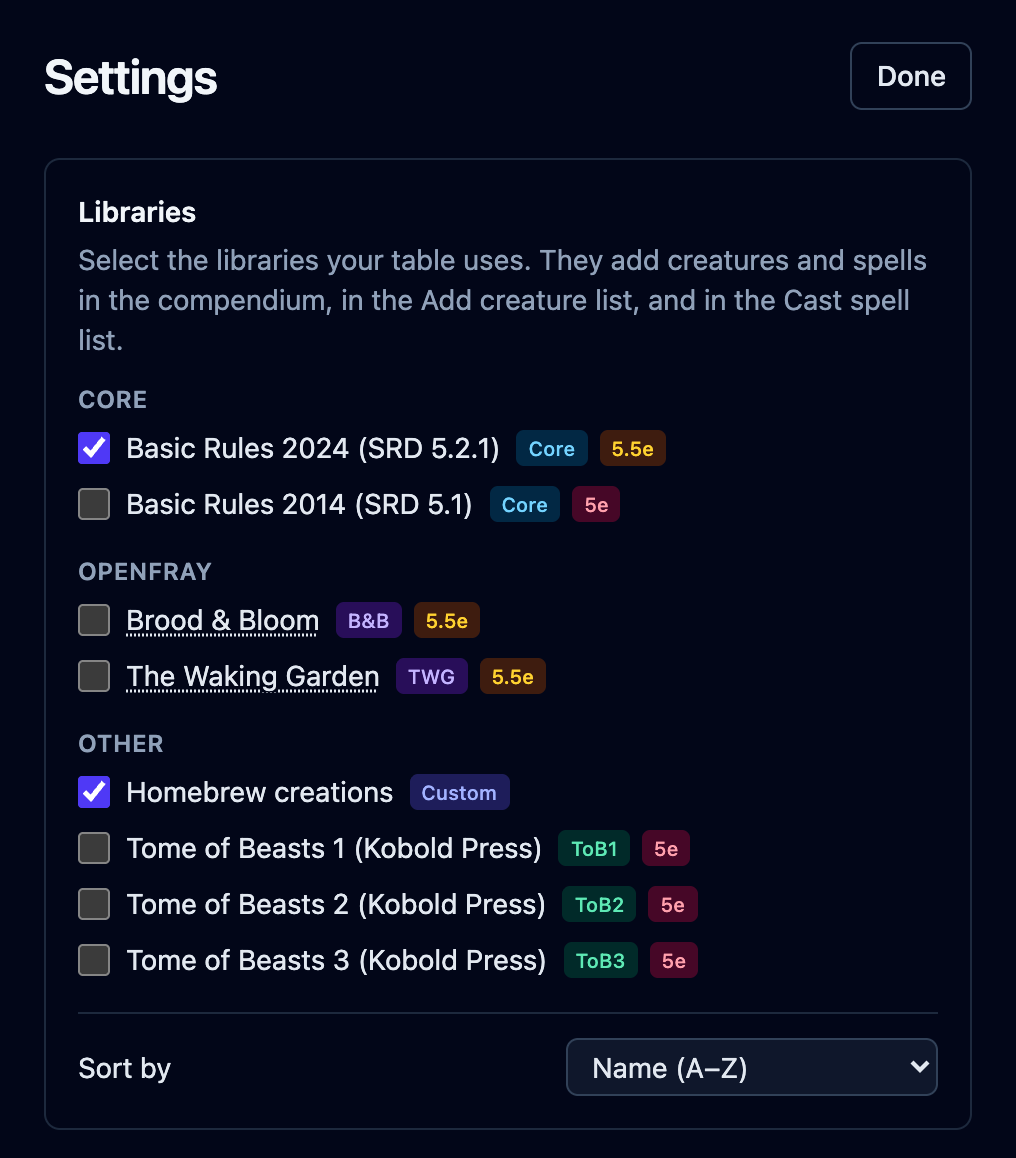
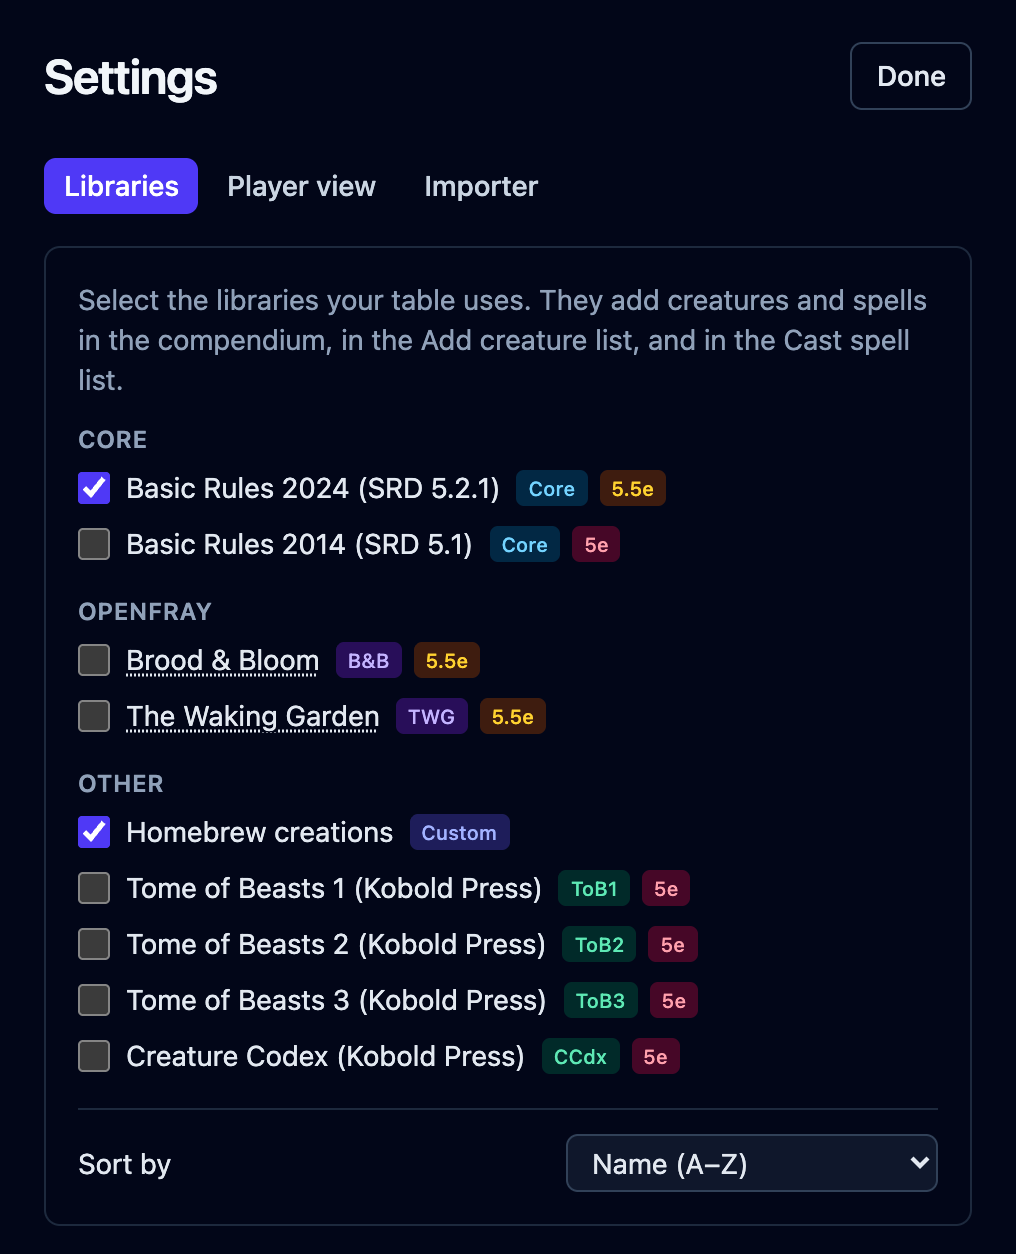
Docs: catch the handbook up with the shared player view
Thirteen app changes have landed since the handbook was last touched, most of them in
the screen the table follows. The player-view page is the bulk of it: creatures now
appear when the fight starts rather than while it is being set up, any one of them can
be held back or revealed on its own, allies show in full, the clocks and the end-of-fight
summary reach the table, and the log starts fresh each fight. Its settings table went
from two rows to eight.

Three claims on that page were wrong rather than merely incomplete, and are corrected:
the log no longer withholds a creature's damage at any hit-point setting, a reload no
longer drops the share, and the settings live behind tabs.

Elsewhere: allies get their own section under Combatants, with the tracker and the recap
pointing at it; concentration is described as starting when a spell lands, which is what
both cast paths now do; and Cast spell opens on the combatant the Game Master is looking
at.

The Settings captures were re-shot for the tabs — the old settings-panel shot framed the
libraries and the importer together, which the tabs make impossible — and the Player view
tab gets a capture of its own, since eight choices are easier shown than described. Both
recipes reached Settings by a path that no longer exists.

diff --git a/src/content/docs/fight/player-view.md b/src/content/docs/fight/player-view.md
@@ -27,6 +27,9 @@ The **screen** button sits in the top bar, between **Sign in** and the gear.
 Your players' screens fill in as soon as you start. If someone opens the link first, it says
 it's waiting and then fills in on its own — nobody has to reload.
 
+Reloading the console doesn't interrupt them: sharing picks up again on its own, and only
+stops when you press **Stop sharing** or close the tab.
+
 :::caution[Anyone with the link can watch]
 The link is the only thing protecting the view, so give it to your table rather than posting
 it publicly. Nobody can change anything through it: the player view has no buttons.
@@ -40,31 +43,56 @@ never pushes the turn order out of sight. On a phone they stack, log underneath.
 - **The turn order** — everyone in the fight, in initiative order, with their conditions
   and effects, who's up, and which round you're on.
 - **The game log** — the running record of what happened.
+- **The clocks** — how long the fight has taken, and how long it has run in the game.
 
 Player characters always show in full: hit points, armor class, conditions, and death saves.
-Your table wrote those numbers down themselves.
+Your table wrote those numbers down themselves. Anyone fighting **alongside** them shows in
+full too — a summoned wolf, a hired guard, a creature you've made an ally (see
+[Creatures, players & quick adds](/docs/fight/combatants/#allies)).
 
-Creatures are different, and that's your call — see below.
+Creatures on the other side are different, and that's your call — see below.
+
+### When a creature appears
+
+Your players see the creatures when the fight starts, not while you're setting it up. Until
+you press **Begin**, their screen shows the party and nothing else, so lining up six ogres
+gives nothing away.
+
+You can overrule that for any creature, either way:
+
+1. Click the creature in the tracker.
+2. In the controls beside its stat block, click **Hide from players**.
+
+The button reads **Hidden from players** while it's held back, its row is tagged **Hidden**
+on your own tracker, and anything it does stays out of your players' log. Click again to put
+it on their screen — before the fight if you want to, for the herald who walks in first.
+
+A creature that arrives mid-fight follows your **Creatures arriving mid-fight** setting, so
+reinforcements can be held back by default and revealed when the party sees them.
 
 ### What lands in their log
 
-Everything that happens on the board, minus a creature's numbers:
+Everything that happens on the board, minus the dice a creature rolled:
 
 | They see                                               | They don't                    |
 | ------------------------------------------------------ | ----------------------------- |
 | A creature attacking, and whether it hit or missed     | The dice, or its attack bonus |
-| What a roll came to, and what damage it dealt          | The dice that got there       |
+| What a roll came to, and the damage it dealt           | The dice that got there       |
 | Whether a creature saved or failed                     | Its save total, or its bonus  |
-| That a creature was hurt or healed                     | By how much                   |
+| How much damage a creature took, or was healed         | How many hit points it has    |
 | Conditions and effects landing and clearing, on anyone | —                             |
 | Concentration starting and breaking                    | —                             |
 | Spells being cast, by name                             | —                             |
 | Turns, rounds, knockouts, deaths, and rests            | —                             |
 
-A roll's total is safe to show — on its own it says nothing, because the dice behind it
-are unknown. A **saving throw** is the exception and shows no number at all: set against a
-difficulty class your table can work out, a save total would give the creature's bonus
-away. Saved or failed is the whole of what they need.
+A roll's total is safe to show — on its own it says nothing, because the dice behind it are
+unknown. A **saving throw** is the exception and shows no number at all: set against a
+difficulty class your table can work out, a save total would give the creature's bonus away.
+Saved or failed is the whole of what they need.
+
+Damage is never held back, whichever hit-point setting you use. How hard the party hit the
+ogre is what they just watched happen, and "how much did that take off me?" is a question
+worth answering. What stays with you is how much the creature had to begin with.
 
 :::note[Legendary Resistance is never spoiled]
 A creature that fails a save and then spends Legendary Resistance shows your players
@@ -72,35 +100,47 @@ A creature that fails a save and then spends Legendary Resistance shows your pla
 table never reads a "Failed" that you then take back.
 :::
 
-Their own characters aren't held back at all: damage to a player character shows the
-number, because they know it already.
-
 Two things never reach the player view, whatever you choose:
 
 - **Creature stat blocks** — abilities, attacks, traits, and spells.
 - **Recharge rolls** — whether a dragon got its breath weapon back.
 
-Set creature hit points to **Exact number** below and the withholding stops: you've told
-OpenFray your table may do the arithmetic, so the log stops rounding it off too.
+### When the fight ends
 
-## Choosing how much a creature gives away
+Your players see the same summary you do — the outcome, the experience earned, how long it
+took, and the standout hits — for as long as you leave it open. Their log clears at the same
+moment, ready for the next fight. Both are settings; see [Choosing what they
+see](#choosing-what-they-see).
 
-Click the **gear** at the top right, choose **Settings**, then **Player view**. Two choices, and both
-apply to every creature in every fight:
+## Choosing what they see
 
-| Setting                  | What you can choose                         | Starts as |
-| ------------------------ | ------------------------------------------- | --------- |
-| **Creature hit points**  | In words (Bloodied) · Exact number · Hidden | In words  |
-| **Creature armor class** | Hidden · Shown                              | Hidden    |
+Click the **gear** at the top right, choose **Settings**, then the **Player view** tab. Every
+choice applies to every fight, and takes effect on your players' screens straight away.
 
-**In words** shows a creature's condition as **Healthy**, **Hurt**, **Bloodied**, or
-**Critical**, without the number. It's the middle ground: your players can tell the fight is
-going their way without counting hit points down to the last one.
+| Setting                          | What you can choose                         | Starts as       |
+| -------------------------------- | ------------------------------------------- | --------------- |
+| **Creature hit points**          | In words (Bloodied) · Exact number · Hidden | In words        |
+| **Creature armor class**         | Hidden · Shown                              | Hidden          |
+| **Creature rolls**               | Shown · Hidden                              | Shown           |
+| **Creature conditions**          | Shown · Hidden                              | Shown           |
+| **Creatures arriving mid-fight** | Shown · Hidden until revealed               | Shown           |
+| **Game log**                     | This fight only · The whole session         | This fight only |
+| **Fight clocks**                 | Shown · Hidden                              | Shown           |
+| **End-of-fight summary**         | Shown · Hidden                              | Shown           |
 
-The hit-point setting also decides how the log reads. On **In words** or **Hidden**, a
-creature's dice and damage amounts are held back; on **Exact number** they aren't.
+![The Player view tab in Settings, listing every choice the shared screen offers with its current value.](../../../assets/screens/player-view-settings.png)
 
-Change either one while you're sharing and your players' screens update straight away.
+A few are worth explaining:
+
+- **Creature hit points → In words** shows a creature as **Healthy**, **Hurt**, **Bloodied**,
+  or **Critical**, without the number. It's the middle ground: your players can tell the fight
+  is going their way without counting hit points down to the last one.
+- **Creature rolls → Hidden** takes the total off a creature's attacks, saves and checks. What
+  happened stays: whether it hit or saved, and the damage it dealt.
+- **Creature conditions → Hidden** takes the badges off a creature's row, and the lines about
+  conditions landing and clearing out of their log. Your players' own characters keep theirs.
+- **Game log → This fight only** starts their log fresh each time you press **Begin** and
+  clears it when the fight ends. Yours keeps everything either way.
 
 ## Naming the link
 
@@ -130,6 +170,7 @@ screens as it changes and kept nowhere, so:
 
 ## Where to next
 
-- [Settings & appearance](/docs/reference/settings/) — where the two player-view choices live.
+- [Settings & appearance](/docs/reference/settings/) — where the player-view choices live.
 - [The game log](/docs/reference/game-log/) — what gets logged, and how to review it.
+- [End of the fight](/docs/fight/recap/) — the summary your players see with you.
 - [The tracker & rows](/docs/fight/tracker/) — the same order, from your side.

diff --git a/src/content/docs/reference/settings.md b/src/content/docs/reference/settings.md
@@ -8,15 +8,19 @@ keywords:
   - Tome of Beasts library
 ---
 
-Two small things live outside the fight: which **libraries** you play with, and whether the
-app is **light or dark**. Both are set once and remembered in your browser, with no account
-needed. Click the **gear** at the top right and choose **Settings**. The same menu holds the
-light and dark switch, and a link to this handbook.
+Some things live outside the fight: which **libraries** you play with, how much your
+players see on the screen you share with them, and whether the app is **light or dark**.
+They're set once and remembered in your browser, with no account needed. Click the **gear**
+at the top right and choose **Settings**. The same menu holds the light and dark switch, and
+a link to this handbook.
+
+Settings opens on three tabs — **Libraries**, **Player view**, and **Importer** — and starts
+on Libraries.
 
 ## Libraries
 
 OpenFray ships with more than one edition of the rules, and with extra books of creatures.
-In **Settings**, tick the ones your table uses.
+On the **Libraries** tab, tick the ones your table uses.
 
 ![The Libraries panel in Settings, grouped into Core, OpenFray and Other, with Basic Rules 2024 ticked.](../../../assets/screens/rule-sets.png)
 
@@ -37,19 +41,33 @@ matches what you're playing.
 
 The choice is remembered in your browser, so it sticks whether or not you're signed in.
 
-![The Settings panel, with the Libraries section and the two importer buttons outlined in red and labeled.](../../../assets/screens/settings-panel.png)
+![The Settings screen on its Libraries tab, with the tab strip and the library list outlined in red and labeled.](../../../assets/screens/settings-panel.png)
 
 ## Player view
 
-The **player view** is a read-only screen your players follow on their own devices. Two
-settings here decide how much of a creature it gives away:
+The **player view** is a read-only screen your players follow on their own devices. Its own
+tab decides how much of a fight reaches them:
 
-- **Creature hit points** — **In words** (Bloodied), an **exact number**, or **hidden**.
-- **Creature armor class** — **hidden**, or **shown**.
+| Setting                          | What you can choose                         | Starts as       |
+| -------------------------------- | ------------------------------------------- | --------------- |
+| **Creature hit points**          | In words (Bloodied) · Exact number · Hidden | In words        |
+| **Creature armor class**         | Hidden · Shown                              | Hidden          |
+| **Creature rolls**               | Shown · Hidden                              | Shown           |
+| **Creature conditions**          | Shown · Hidden                              | Shown           |
+| **Creatures arriving mid-fight** | Shown · Hidden until revealed               | Shown           |
+| **Game log**                     | This fight only · The whole session         | This fight only |
+| **Fight clocks**                 | Shown · Hidden                              | Shown           |
+| **End-of-fight summary**         | Shown · Hidden                              | Shown           |
 
-It starts on words and no armor class. Player characters always show in full, whatever you
-pick here. Sharing itself is the **screen** button in the top bar — see
-[The player view](/docs/fight/player-view/).
+Player characters always show in full, whatever you pick here, and so does anyone fighting
+alongside them. Every choice reaches your players' screens straight away, mid-fight included.
+Any single creature can also be hidden or revealed on its own, from its controls beside the
+stat block.
+
+![The Player view tab in Settings, listing every choice the shared screen offers with its current value.](../../../assets/screens/player-view-settings.png)
+
+Sharing itself is the **screen** button in the top bar — see
+[The player view](/docs/fight/player-view/), which explains each choice.
 
 ## Light or dark
 
@@ -61,9 +79,9 @@ browser, and it's shared with the OpenFray website, so both match.
 
 ## The importer
 
-Settings also links to the **OpenFray Importer**, a free browser add-on that turns a
-D&D&nbsp;Beyond creature page into an OpenFray creature. Under **Browser extension** there's a
-button for each browser it's published for: **Get it for Chrome** and **Get it for Firefox**. See
+The **Importer** tab links to the **OpenFray Importer**, a free browser add-on that turns a
+D&D&nbsp;Beyond creature page into an OpenFray creature. There's a button for each browser it's
+published for: **Get it for Chrome** and **Get it for Firefox**. See
 [The importer](/docs/library/importer/).
 
 :::note[Where the rules come from]

diff --git a/src/content/docs/fight/spells.md b/src/content/docs/fight/spells.md
@@ -27,16 +27,16 @@ pick, because a stat block doesn't have spell slots to spend.
 ![A creature's Spellcasting section, with a spell and its remaining uses outlined in red and labeled.](../../../assets/screens/cast-spell.png)
 
 **From the Cast spell button**, at the top of the screen. Search any spell — every spell
-in the [libraries you've turned on](/docs/reference/settings/#libraries), plus your own —
-then pick **who is casting it**.
+in the [libraries you've turned on](/docs/reference/settings/#libraries), plus your own.
+The **caster** starts as whoever you have selected, or whoever's turn it is, so the common
+case needs no picking at all; change it in the dropdown when it's someone else.
 
 ![The Cast spell button outlined in red, its modal open with a caster picker set to Zara, a spell search, and a badged spell list.](../../../assets/screens/cast-spell-modal.png)
 
 Naming a caster is worth doing: OpenFray takes their save DC and spell attack bonus, and
-if the spell needs concentration it starts the caster concentrating, with the timer
-already counting. Leave the caster blank and you can still cast — you just type the
-numbers yourself. That's the path for a player's spell, where OpenFray has no sheet to
-read from.
+starts their concentration when the spell takes hold. Leave the caster blank and you can
+still cast — you just type the numbers yourself. That's the path for a player's spell,
+where OpenFray has no sheet to read from.
 
 What happens next depends on the spell:
 
@@ -44,7 +44,7 @@ What happens next depends on the spell:
 - a **saving throw** spell opens the [group save](#group-saves) box, already filled in;
 - a **helpful or utility** spell shows its card.
 
-Wherever a spell rolls its own dice, **Roll damage** becomes **Reroll damage** afterwards.
+Wherever a spell rolls its own dice, **Roll damage** becomes **Reroll damage** afterward.
 Rerolling updates the damage the saves are split from and leaves the results you've already
 recorded alone. See [Rerolling one creature's save](/docs/fight/saves/#rerolling-one-creatures-save).
 
@@ -80,6 +80,10 @@ turn_. The badge clears itself when the damage comes due, and you roll it — th
 you roll a Hex die.
 
 Every spell you cast is written into the log. When a spell needs concentration, OpenFray
-marks it as such, so ending concentration clears it everywhere at once.
+marks the caster as concentrating **once the spell lands** — a target failed, the attack
+hit, or you applied its effect — with the timer already counting. A spell everyone shrugs
+off leaves nothing to concentrate on, so nothing is marked. A spell with nothing to roll and
+nothing to put on a creature (_Wall of Force_, _Silent Image_) takes hold as you cast it.
+Ending concentration then clears the spell everywhere at once.
 
 ![The game log with "Zara concentrates on Banishment" recorded below the Ogre's failed CHA save.](../../../assets/screens/game-log-spell-casted.png)

diff --git a/src/content/docs/fight/recap.md b/src/content/docs/fight/recap.md
@@ -33,11 +33,20 @@ A party wipe only counts once every player is dead or stable — one character s
   comparing against how it actually went.
 - **Experience earned**, and what that works out to per player — unless your campaign levels
   up by [milestone](/docs/library/campaigns/#leveling-up-experience-or-milestone), in which
-  case experience is left out.
+  case experience is left out. Only foes pay: a creature
+  [fighting for the party](/docs/fight/combatants/#allies) that went down isn't an encounter
+  they overcame.
 - **How long it took** — rounds, in-game minutes (six seconds a round), and real time with
   pauses excluded.
 - **Total damage** dealt and taken.
 - **Three awards** — most damage dealt, most damage taken, and the biggest single hit.
+
+## Your players see it too
+
+If you're sharing a [player view](/docs/fight/player-view/), the same summary appears on your
+players' screens for as long as you leave it open, and their log clears at the same moment,
+ready for the next fight. Both are settings — see
+[Choosing what they see](/docs/fight/player-view/#choosing-what-they-see).
 
 Pressing **Stop** keeps everyone on the board, so you can look the summary over and carry
 on. To take the board apart for the next fight, see

diff --git a/src/content/docs/fight/combatants.md b/src/content/docs/fight/combatants.md
@@ -52,6 +52,21 @@ name, hit points, armor class, and whether it's a **Friend** or a **Foe**.
 
 ![The Quick add button outlined in red, with its short form open: a name, a Foe dropdown, AC, and HP.](../../../assets/screens/add-npc-dropdown.png)
 
+## Allies
+
+A creature from the compendium is a foe unless you say otherwise. When one fights for the
+party instead — a summoned wolf, a hired guard, an ogre the bard has just charmed — select
+it and click **Make ally** in the controls beside its stat block.
+
+An ally moves in with the players in the tracker, takes the blue row color, is offered as
+an ally when you pick targets, and stops counting toward
+[how hard the fight looks](/docs/fight/encounters/#how-hard-the-fight-looks) and the
+experience in the [end-of-fight summary](/docs/fight/recap/). On the shared
+[player view](/docs/fight/player-view/) it shows in full, like a player character.
+
+The button reads **Ally** once it's one. Click it again to put the creature back on the
+other side, mid-fight if the charm wears off.
+
 ## What each row shows
 
 Once a combatant is on the board, the tracker row shows their initiative, name, hit points,

diff --git a/src/content/docs/fight/concentration.md b/src/content/docs/fight/concentration.md
@@ -17,7 +17,9 @@ ends.
 
 In the controls beside a creature's stat block, click **Concentrate**. You can add the
 spell's name and, if you like, how long it lasts. Casting a concentration spell from
-[Cast spell](/docs/fight/spells/) starts this for you, with the timer already counting.
+[Cast spell](/docs/fight/spells/), or from a creature's stat block, starts this for you
+with the timer already counting — as soon as the spell lands on someone. A spell every
+target shrugs off leaves nothing to hold on to, so nobody is marked as concentrating.
 
 ![The Concentrate control in use, with the game log recording a creature starting and ending concentration.](../../../assets/screens/set-concentration.gif)
 

diff --git a/src/content/docs/fight/tracker.md b/src/content/docs/fight/tracker.md
@@ -22,6 +22,9 @@ points, and armor class. Any effects on the creature show as badges under its na
 During a fight, the creature whose turn it is glows, and its stat block fills the middle of
 the screen. Click any row to select that creature and act on it.
 
+A creature you're keeping off the shared [player view](/docs/fight/player-view/) is tagged
+**Hidden**, so you can see at a glance which ones your table can't.
+
 ## Changing hit points
 
 Click a creature's current hit points to change them. You can:
